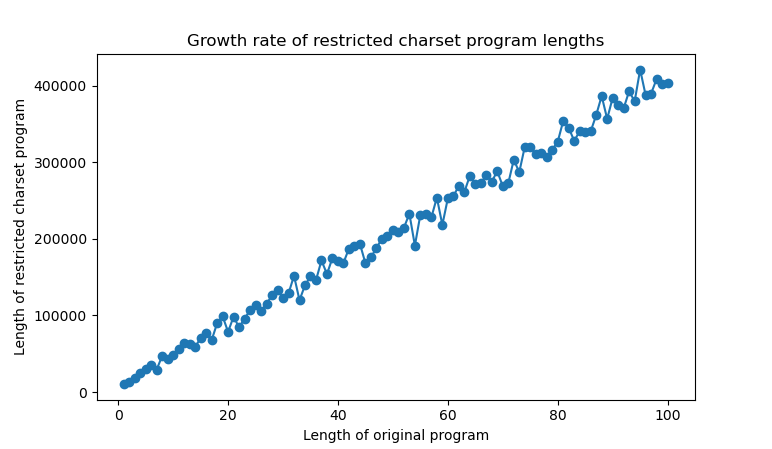
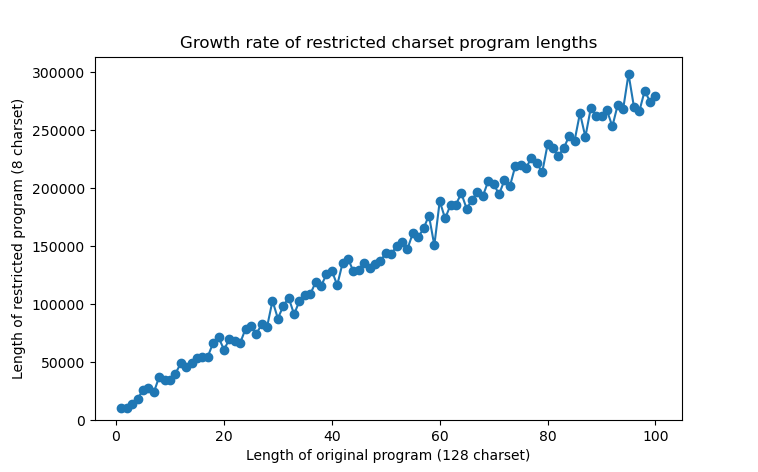
Update plot
128 chars is better

Changed region(s): [[0.091, 0.1559, 0.9103, 0.9978], [0.0303, 0.0624, 0.9103, 0.2183], [0.0, 0.2183, 0.1517, 0.8107]]

diff --git a/plot.py b/plot.py
@@ -11,7 +11,7 @@ def get_encoded_program_length(n):
 
     # Generate random string
     # Technically all of unicode is supported, but a restricted charset is a good enough approximation
-    available_chars = [chr(i) for i in range(0, 255)]
+    available_chars = [chr(i) for i in range(0, 127)]
     random_program_string = ''.join(random.choice(available_chars) for _ in range(n))
 
     encoded_program = encode_program(random_program_string)
@@ -26,12 +26,13 @@ print("Approximate gradient:", y_values[-1] / x_values[-1])
 
 
 # Plotting
+plt.ylim(bottom=0, top=max(y_values)*1.05)
 plt.plot(x_values, y_values, marker='o')  # Use marker='o' for circular markers on each point
 
 # Adding title and labels
 plt.title('Growth rate of restricted charset program lengths')
-plt.xlabel('Length of original program')
-plt.ylabel('Length of restricted charset program')
+plt.xlabel('Length of original program (128 charset)')
+plt.ylabel('Length of restricted program (8 charset)')
 
 # Show the plot
 plt.show()
